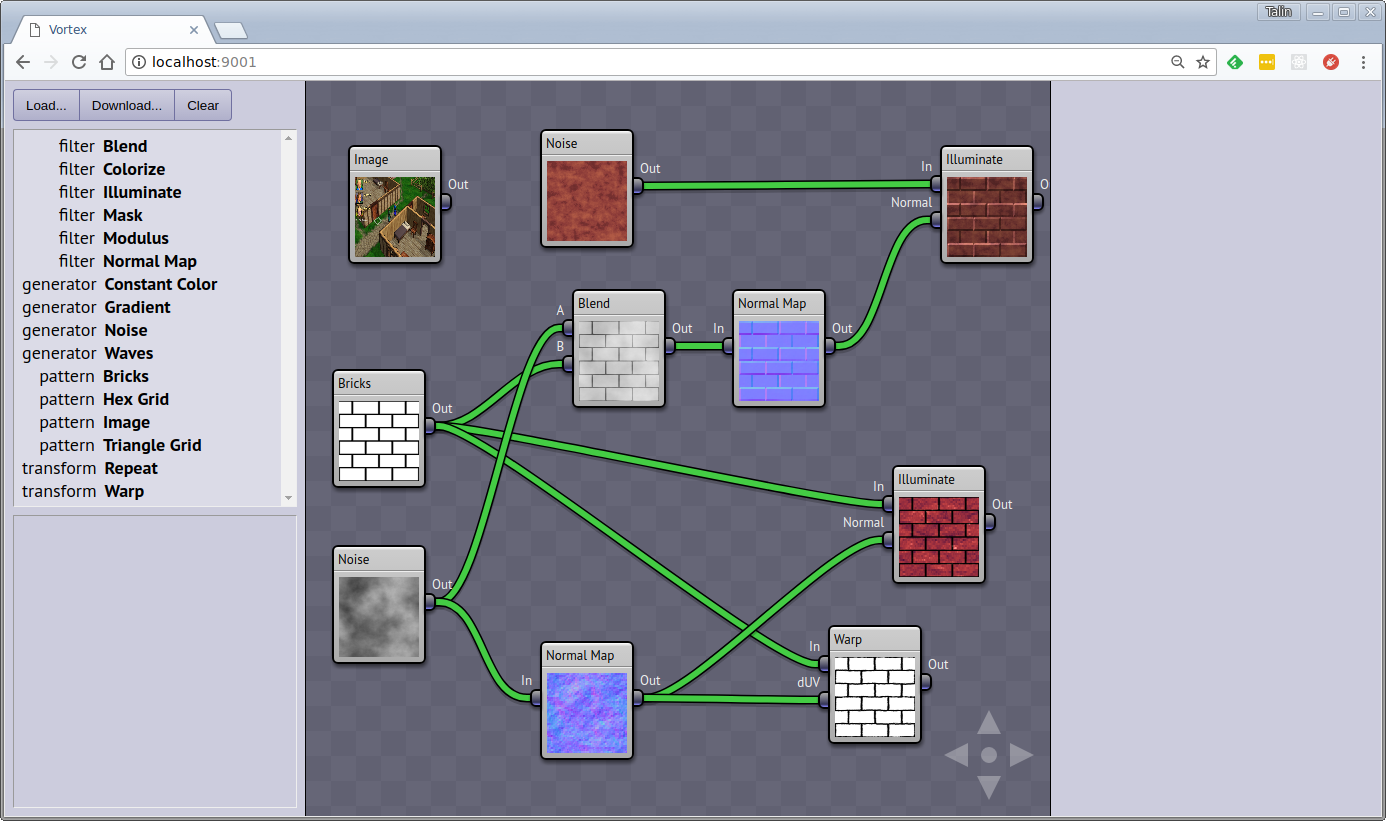
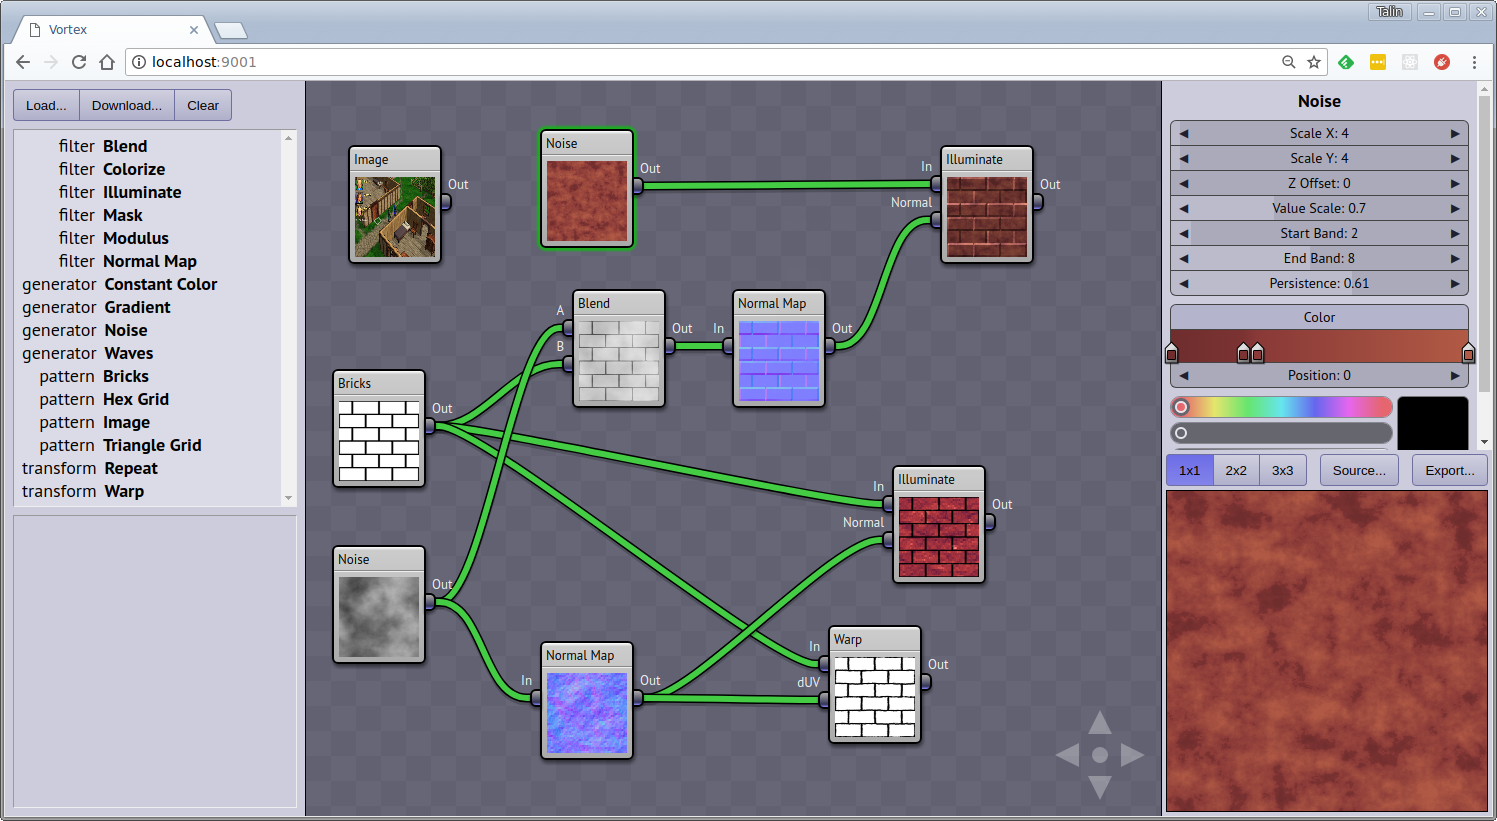
More doc updates.

diff --git a/README.md b/README.md
@@ -28,7 +28,9 @@ Then navigate to http://localhost:9001
   * Output nodes can have any number of connections.
   * Input nodes can only have one connection. Attempting to add another connection will replace the previous connection.
 * When a node is selected, the node's property list will appear on the right panel.
-* Node properties are shown as 'combo sliders' which are a combination of slider and text input, very similar to the controls in Blender. You can click the arrows, drag left and right, or double-click to type in a numeric value directly.
+* Node properties are shown as 'combo sliders' which are a combination of slider and text input, very
+  similar to the controls in Blender. You can click the arrows, drag left and right, or double-click to type in a numeric value directly.
+* Editing gradients: Double-click to add or remove a color stop.
 * Select the 'Shader' button on the left panel to view the text of the generated OpenGL shader.
 * Select the 'Export' button to see a high-res version of the generated image for the current selected node.
 
